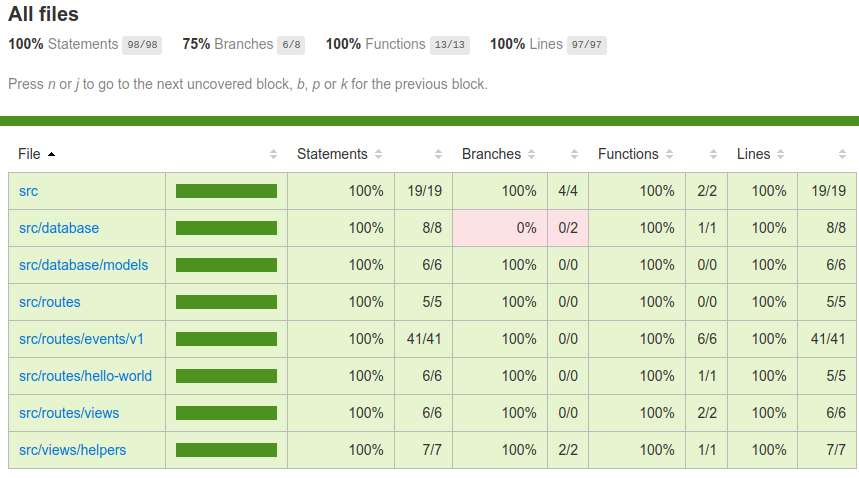
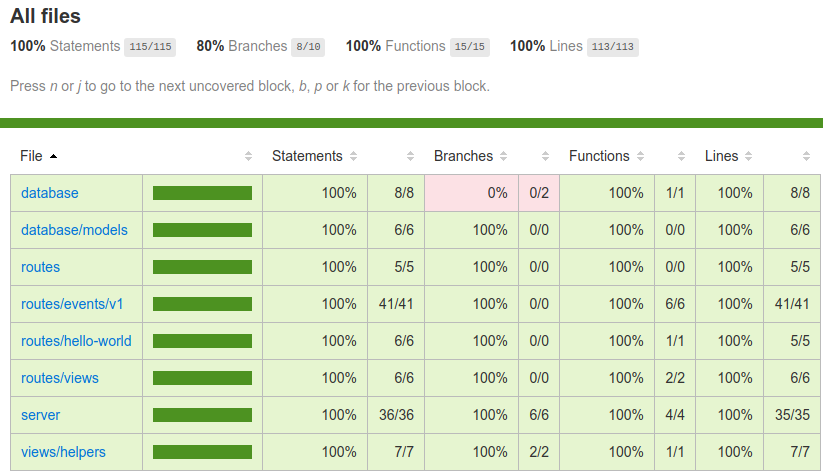
add auth tests

Changed region(s): [[0.0, 0.2358, 1.0, 1.0], [0.0, 0.0, 0.7898, 0.1179], [0.0, 0.1474, 0.6075, 0.2063]]

diff --git a/test/routes.test.js b/test/routes.test.js
@@ -27,6 +27,8 @@ const eventTest = {
   featured: faker.random.boolean(),
 };
 
+const testAuth = 'Basic dGVzdFVzZXI6dGVzdHB3ZDAxMjM3ODUxfiU=';
+
 describe('Loners App Routes', () => {
   before(async () => {
     const server = await createServer();
@@ -41,19 +43,29 @@ describe('Loners App Routes', () => {
 
   describe('Loners App Routes', () => {
     describe('Views', () => {
-      it('Home Should exist', async () => {
+      it('Home Should Exist', async () => {
         const res = await chai.request(`http://${host}:${port}`).get('/');
         expect(res.statusCode).to.be.eql(200);
       });
-      it('About Us Should exist', async () => {
+      it('About Us Should Exist', async () => {
         const res = await chai.request(`http://${host}:${port}`).get('/about-us');
         expect(res.statusCode).to.be.eql(200);
       });
     });
 
     describe('hello-world', () => {
-      it('Should exist', async () => {
+      it('Should Fail Without Auth', async () => {
         const res = await chai.request(`http://${host}:${port}`).get('/helloWorld');
+        expect(res.statusCode).to.be.eql(401);
+        expect(res.text).to.be.eql('{"statusCode":401,"error":"Unauthorized","message":"Missing authentication"}');
+      });
+      it('Should Fail With Worng User/Password', async () => {
+        const res = await chai.request(`http://${host}:${port}`).get('/helloWorld').auth('user', 'pass');
+        expect(res.statusCode).to.be.eql(401);
+        expect(res.body.message).to.be.eql('Bad username or password');
+      });
+      it('Should Return With Auth', async () => {
+        const res = await chai.request(`http://${host}:${port}`).get('/helloWorld').set('Authorization', testAuth);
         expect(res.statusCode).to.be.eql(200);
         expect(res.text).to.be.eql('Hello, world!');
       });

diff --git a/src/server/index.js b/src/server/index.js
@@ -1,10 +1,12 @@
 const Hapi = require('hapi');
+const authBasic = require('hapi-auth-basic');
 const HapiSwagger = require('hapi-swagger');
 const Inert = require('inert');
 const Vision = require('vision');
 const handlebars = require('handlebars');
-const pkg = require('../package.json');
-const routes = require('./routes');
+const validate = require('./auth');
+const pkg = require('../../package.json');
+const routes = require('../routes');
 require('dotenv').config();
 
 const createServer = async () => {
@@ -29,6 +31,7 @@ const startServer = async (server) => {
     auth: false,
   };
   await server.register([
+    { plugin: authBasic },
     { plugin: Inert },
     { plugin: Vision },
     {
@@ -36,16 +39,19 @@ const startServer = async (server) => {
       options: swaggerOptions,
     },
   ]);
+
+  await server.auth.strategy('simple', 'basic', { validate });
+
   server.views({
     engines: {
       html: handlebars,
     },
     relativeTo: __dirname,
-    path: 'views',
-    layoutPath: 'views/layout',
-    layout: 'default',
-    partialsPath: 'views/partials',
-    helpersPath: 'views/helpers',
+    path: '../views',
+    layoutPath: '../views/layout',
+    layout: './default',
+    partialsPath: '../views/partials',
+    helpersPath: '../views/helpers',
   });
   await server.route(routes);
   await server.start();

diff --git a/src/index.js b/src/index.js
@@ -1,38 +1,10 @@
-const authBasic = require('hapi-auth-basic');
-const Bcrypt = require('bcrypt');
 const initDb = require('./database');
 const { createServer, startServer } = require('./server');
-require('dotenv').config();
 
 (async () => {
-  const myPlaintextPassword = process.env.MONGO_PASSWORD;
-  const pass = await Bcrypt.hash(myPlaintextPassword, 1);
-  const users = [
-    {
-      id: '1',
-      username: process.env.MONGO_USERNAME,
-      password: pass,
-    },
-  ];
-
-  const validate = async (request, username, password) => {
-    const user = users.filter((u) => u.username === process.env.MONGO_USERNAME);
-    if (!user[0]) {
-      return { credentials: null, isValid: false };
-    }
-    const isValid = await Bcrypt.compare(password, user[0].password);
-    const credentials = { id: user[0].id, name: user[0].name };
-
-    return { isValid, credentials };
-  };
-
   try {
     const server = await createServer();
     await initDb();
-    await server.register([
-      { plugin: authBasic },
-    ]);
-    await server.auth.strategy('simple', 'basic', { validate });
     await startServer(server);
     console.log(`Server running at: ${server.info.uri}`);
   } catch (err) {

diff --git a/src/server/auth.js b/src/server/auth.js
@@ -1,0 +1,30 @@
+const Bcrypt = require('bcrypt');
+require('dotenv').config();
+
+const validate = async (request, username, password) => {
+  const myPlaintextPassword = process.env.MONGO_PASSWORD;
+  const pass = await Bcrypt.hash(myPlaintextPassword, 10);
+
+  const users = [
+    {
+      id: 'testUser',
+      username: 'testUser',
+      password: '$2b$10$5oweGcVHgR2W7Huzu5.4l.p/IGUiXla.CLLXF7OctpuGCe4Va5TBm', // testpwd01237851~%
+    },
+    {
+      id: '1',
+      username: process.env.MONGO_USERNAME,
+      password: pass,
+    },
+  ];
+  const user = users.filter((u) => u.username === username);
+  if (!user[0]) {
+    return { credentials: null, isValid: false };
+  }
+  const isValid = await Bcrypt.compare(password, user[0].password);
+  const credentials = { id: user[0].id, name: user[0].name };
+
+  return { isValid, credentials };
+};
+
+module.exports = validate;

diff --git a/README.md b/README.md
@@ -22,7 +22,7 @@ cd loners-api
 
 ## How To Run
 
-#### LINUX
+#### Linux
 
 #### First Time
 
@@ -30,7 +30,7 @@ cd loners-api
 ./start.sh
 ```
 
-Follow the instructions, this will create the users inside the database.
+Follow the instructions, this will create the user and password.
 
 To close, just type: `Ctrl+C`
 
@@ -52,9 +52,9 @@ docker-compose stop
 
 API Endpoint: http://localhost:8080
 
-MONGO EXPRESS: http://localhost:8081 - use the same username and password.
+MONGO EXPRESS: http://localhost:8081
 
-## API ENDPOINTS
+## API Endpoints
 
 See API Documentation: http://localhost:8080/documentation
 
